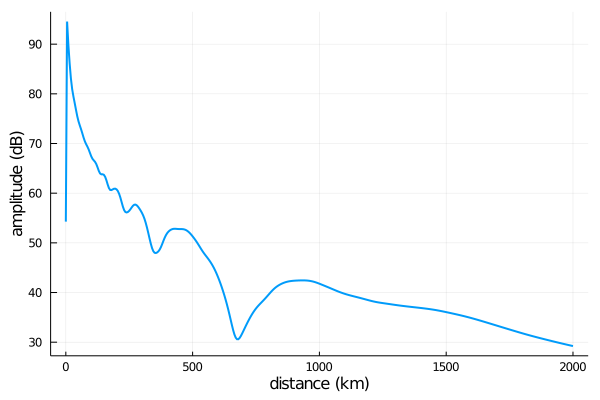
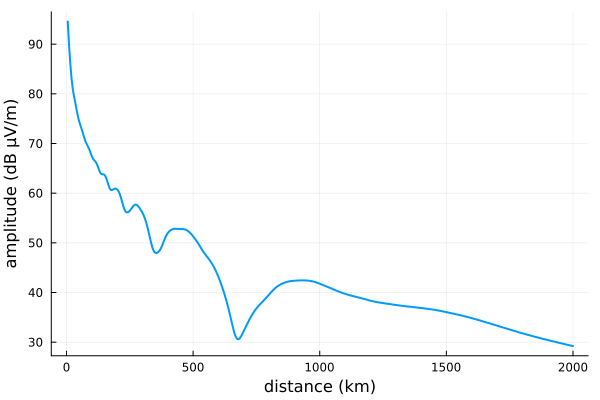
Update imageexample.png (used in readme) to reflect E(x=0)=Inf

diff --git a/README.md b/README.md
@@ -70,7 +70,8 @@ We can plot the results if we `] add Plots`:
 ```julia
 using Plots
 
-plot(rx.distance/1000, a, xlabel="distance (km)", ylabel="amplitude (dB)")
+plot(rx.distance/1000, a,
+     xlabel="distance (km)", ylabel="amplitude (dB μV/m)", legend=false, lw=2)
 ```
 
 ![](indexexample.png)
